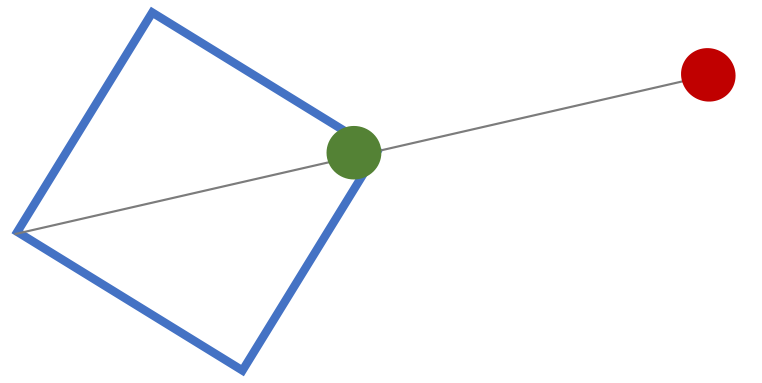
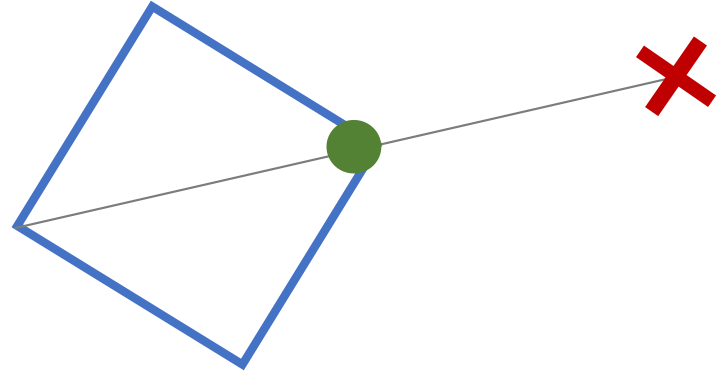
ch.5 corrections

Changed region(s): [[0.0, 0.0, 1.0, 1.0], [0.0922, 0.6819, 0.1844, 0.8005]]

diff --git a/cs/kap05.tex b/cs/kap05.tex
@@ -195,7 +195,7 @@ Z objektového návrhu již známe komponentu \textbf{\texttt{SwordMovement}}, j
 
 Z předchozí kapitoly bychom již měli být seznámeni se strukturou komponenty \textbf{\texttt{SwordMovement}}. Víme tedy, že hostuje množinu modulů - ty slouží jako zdroj high-level instrukcí udávajících cílovou polohu meče. Tyto instrukce jsou \texttt{SwordMovement}u předávány voláním metody \texttt{MoveSword()}.
 
-Této metodě je typicky předána nová pozice, od té předchozí libovolně vzdálená, každý snímek (technicky může být volána i několikrát za jeden snímek). Na meč však máme nároky, aby se pohyboval plynule bez náhlých změn rychlosti. Samotná metoda \texttt{MoveSword()} tedy žádný pohyb meče nevykonává - pouze v privátním stavu komponenty komponenty poznačí cílovou pozici, ke které se meč má přibližovat. Vlastní pohyb meče je pak vykonáván pravidelně každý snímek na základě aktuálně platné cílové pozice.
+Této metodě je typicky předána nová pozice, od té předchozí libovolně vzdálená, každý snímek (technicky může být volána i několikrát za jeden snímek). Na meč však máme nároky, aby se pohyboval plynule bez náhlých změn rychlosti. Samotná metoda \texttt{MoveSword()} tedy žádný pohyb meče nevykonává - pouze v privátním stavu komponenty poznačí cílovou pozici, ke které se meč má přibližovat. Vlastní pohyb meče je pak vykonáván pravidelně každý snímek na základě aktuálně platné cílové pozice.
 
 Pozice meče má dvě složky - lineární a rotační. Interně je reprezentujeme zkrátka jako 3D vektor udávající polohu \texttt{anchor}u meče, a kvaternion udávající jeho rotaci kolem \texttt{anchor}u. Pro veřejné rozhraní metody \texttt{MoveSword()} jsme se však rozhodli rotaci reprezentovat formou dvou orientačních bodů - ke kvaternionům se nám zdály jako celkově přívětivější alternativa, která je navíc kompatibilní s maticovými transformacemi.
 
@@ -243,7 +243,7 @@ Druhou složkou je lineární pohyb. Podívejme se nyní na ten.
 
 Zde jsme se pokusili, analogicky jako u rotace, pro jednotlivé stupně volnosti nastavit joint jako \texttt{Free} a polohu meče kontrolovat pomocí položky \texttt{targetPosition}. Narozdíl od rotace, zde se však joint choval nestabilně - pokud jsme cílovou pozici odchýlili příliš daleko od kotvícího bodu, meč začal být v nepředvídatelných intervalech surově vystřelován do dáli. Příčinu takto rozbitého chování se nám nepodařilo odhalit, pro lineární pohyb meče jsme tedy raději zvolili alternativní metodu. 
 
-Pomohla nám proměnná \texttt{joint.connectedAnchor}. Ta udává pozici na těle šermíře, ke které je joint svým \texttt{anchor}em ukotven. Defaultně je nastavená jako readonly - v editoru jí díky tomu joint může automaticky updatovat, aby souhlasila s nastavenou hodnotou \texttt{anchor} a polohou ve světě, kam jsme meč umístili. Zapisovací práva získáme vypnutím\footnote{Vhodné je ho v editoru nechat zapnutý a vypnout jej až programaticky při inicializaci SwordMovement. Takto zachováme pohodlí při práci v editoru.} flagu \texttt{joint.autoConfigureConnectedAnchor}. Nakonec je třeba nastavit všechny lineární stupně volnosti na \texttt{Locked}.
+Pomohla nám proměnná \texttt{joint.connectedAnchor}. Ta udává pozici na těle šermíře, ke které je joint svým \texttt{anchor}em ukotven. Defaultně je nastavená jako readonly - v editoru jí díky tomu joint může automaticky updatovat, aby souhlasila s nastavenou hodnotou \texttt{anchor} a polohou ve světě, kam jsme meč umístili. Zapisovací práva získáme vypnutím\footnote{Vhodné je ho v editoru nechat zapnutý a vypnout jej až programaticky při inicializaci \texttt{SwordMovement}. Takto zachováme pohodlí při práci v editoru.} flagu \texttt{joint.autoConfigureConnectedAnchor}. Nakonec je třeba nastavit všechny lineární stupně volnosti na \texttt{Locked}.
 
 Zápisem do \texttt{joint.connectedAnchor} jsme nyní schopni meč okamžitě přesunout na cílovou pozici. My však potřebujeme pohyb plynule rozložený v průběhu času. 
 
@@ -263,7 +263,7 @@ Jde o velmi triviální řešení, jež neodpovídá realistickému fyzikálním
 
 \subsubsection*{Síla držení meče} \label{implementationSwordHoldingForceSubsubsection}
 
-Někdy je třeba kromě pozice meče mít kontrolu i nad způsobem, jak je meč držen. Např. v modu blokování potřebujeme, aby byl meč držen pevněji než při sekání, jinak by blokující meč byl tím sekajícím sražen na stranu (sekající se pohybuje a má tedy větší kinetickou sílu). 
+Někdy je třeba kromě pozice meče mít kontrolu i nad způsobem, jak je meč držen. Např. v modu blokování potřebujeme, aby byl meč držen pevněji než při sekání, jinak by blokující meč byl tím sekajícím sražen na stranu (sekající se pohybuje a má proto větší kinetickou sílu). 
 
 Sílu držení meče jsme tedy umožnili definovat spolu s polohou. Jde o volitelný parametr - pokud není dodán, meč se navrací na defaultní sílu držení (která byla z jointu přečtena při inicializaci). Implementace probíhá jednoduše změnou položky \texttt{joint.slerpDrive.spring}, používáme k tomu stejnou triviální interpolaci jako pro pohyb \texttt{connectedAnchoru} výše.
 
@@ -275,7 +275,7 @@ Jak jsme nastínili v \ref{interfacesSwordMovementModulesObjectModelSubsubsectio
 
 Pro spravování indexované množiny objektů jsme implementovali třídu \texttt{SerializableDictionary<TKey, TValue>} - ta obsahuje serializovatelný list key-value párů a umožňuje jeho jednoduchý převod na \texttt{Dictionary}. 
 
-Vyvstává však problém - pole v tomto dictionary jsme deklarovali typu \texttt{SwordMovement.Module} - očekáváme, že konkrétní podtřídu vybere uživatel v editoru - Unity však v editoru výběr podtřídy nepodporuje. Naštěstí existuje knihovna \texttt{SubclassPropertyDrawer} \cite{SubclassPropertyDrawer}, která ji je schopna přímočaře doplnit.  
+Vyvstává však problém - pole v tomto dictionary jsme deklarovali typu \texttt{SwordMovement.Module} - očekáváme, že konkrétní podtřídu vybere uživatel v editoru - Unity však v editoru výběr podtřídy nepodporuje. Naštěstí existuje knihovna \texttt{SubclassPropertyDrawer} \cite{SubclassPropertyDrawer}, která jej je schopna přímočaře doplnit.  
 
 \begin{figure}[ht]\centering
   \center
@@ -348,13 +348,13 @@ Zde velmi stručně projdeme implementaci jednoduché zbraně a zbroje, které n
 
 \subsubsection*{BasicArmorPiece}
 
-Odkaz na své Damageable najde prohledáváním hierarchie směrem nahoru. Definuje dva parametry:
+Odkaz na své \texttt{Damageable} najde prohledáváním hierarchie směrem nahoru. Definuje dva parametry:
 \begin{itemize}
   \item \texttt{Násobič zranění} - číslo kterým vynásobí dmg útoku  
   \item \texttt{Minimální zranění} - pokud je výsledné dmg pod touto hranicí, útok bude ignorován
 \end{itemize}
 
-Jeho metoda \texttt{ProcessAttack()} spočte výsledné dmg a pokud je nad minimální hranicí, ubere toto množství HP svému Damageable voláním \texttt{ChangeHP()}.
+Jeho metoda \texttt{ProcessAttack()} spočte výsledné dmg a pokud je nad minimální hranicí, ubere toto množství HP svému \texttt{Damageable} voláním \texttt{ChangeHP()}.
 
 Šermířovi jsme umístili jednu instanci do kořenu jeho detailního těla - ta definuje základní chování pro všechny jeho collidery - do kostí jeho rukou jsme umístili dvě doplňující instance s menším násobičem. Ruce budou veškeré zásahy defaultně zpracovávat těmito v hierarchii bližšími instancemi, čímž se kompenzuje jejich jinak nadprůměrná zranitelnost. Podobně by se dal vyladit i zbytek šermířova těla.
 
@@ -425,9 +425,9 @@ void SetTargetRotation(
 
 Algoritmus jsme důkladně otestovali a zdá se spolehlivě fungovat.
 
-Zda smíme používat světové, nebo lokální souřadnice, záleží na hodnotě flagu \texttt{joint.configuredInWorldSpace}. Argument \texttt{startRotation} je (buď globální, nebo lokální) rotace, kterou jsme přečetli z \texttt{joint.transform} na začátku hry ve zprávě Start().
+Zda smíme používat světové, nebo lokální souřadnice, záleží na hodnotě flagu \texttt{joint.configuredInWorldSpace}. Argument \texttt{startRotation} je (buď globální, nebo lokální) rotace, kterou jsme přečetli z \texttt{joint.transform} na začátku hry ve zprávě \texttt{Start()}.
 
-V případě našeho meče používáme lokální souřadnice. Tedy \texttt{joint.configuredInWorldSpace} musí být false a jako parametr \texttt{startRotation} posíláme \texttt{joint.transform.localRotation}.
+V případě našeho meče používáme lokální souřadnice. Tedy \texttt{joint.configuredInWorldSpace} musí být \texttt{false} a jako parametr \texttt{startRotation} posíláme \texttt{joint.transform.localRotation}.
 
 V naší práci jsme tuto logiku zapouzdřili do třídy \texttt{JointRotationHelper}, kterou je třeba inicializovat odkazem na joint při spuštění hry. Následně pro nastavení cílové rotace stačí volat její metodu \texttt{SetTargetRotation} s jediným argumentem udávajícím cílovou rotaci.
 
@@ -556,7 +556,7 @@ Náším cílem je fixer umísťovat tak, aby došlo k jeho kolizi s Cílem tehd
 \begin{figure}[ht]\centering
   \center
   \includegraphics[height=30mm]{../img/fixerBirdseye.png}
-  \caption{Z ptačí perspektivy - Hostitel (zeleně), Cíl (červeně), Fixer (modře)}
+  \caption{Z ptačí perspektivy - Hostitel (kruh), Cíl (křížek), Fixer (čtverec)}
   \label{obr05:fixerBirdseye}
 \end{figure} 
 Z tvarů, které nám nabízejí primitivní collidery, se pro tento účel jeví nejvhodnějším \texttt{BoxCollider}. Jeho výšku stanovíme shodnou s délkou meče - jedna z jeho vertikálních hran se bude s osou Hostitelského meče shodovat - podstavu necháme pro jednoduchost čtvercovou a délku hrany necháme uživatelsky parametrizovatelnou - my budeme dále pracovat s pojmem \textbf{Hloubka}... vzdálenost jednoho z vrcholů podstavy od jejího středu - tedy polovina úhlopříčky podstavy.
@@ -637,7 +637,7 @@ Při testování jsme narazili na několik problémů. Prvním bylo, že fixer p
     spojnice = nová Úsečka(spojnice.origin, -spojnice.direction);
   minuláSpojnice = spojnice;
 \end{code}
-Následně již fixer Cílovému meči v tunelování korektně bránil. Příležitostně však nastávaly situace, kdy tato podmínka byla vyhodnocena jako \texttt{true}, aniž by šlo o tunelování. Např. okamžitě po inicializaci, v prvních několika snímcích hry, se celá hra zdá chovat celkově nestabilně a k tomuto jevu docházelo. Poloha fixeru se v takovém případě přepnula do stavu, kdy nastavoval směrem k Cílovému meči celý masiv svého těla - viz obr. \ref{obr05:fixerOverturned} - a docházelo tedy k pro hráče velmi matoucím kolizím s neznámým neviditelným objektem. 
+Následně již fixer Cílovému meči v tunelování korektně bránil. Příležitostně však nastávaly situace, kdy tato podmínka byla vyhodnocena jako \texttt{true}, aniž by šlo o tunelování. Např. okamžitě po inicializaci, v prvních několika snímcích hry, se hra zdá chovat celkově nestabilně a k tomuto jevu docházelo. Poloha fixeru se v takovém případě přepnula do stavu, kdy nastavoval směrem k Cílovému meči celý masiv svého těla - viz obr. \ref{obr05:fixerOverturned} - a docházelo tedy k pro hráče velmi matoucím kolizím s neznámým neviditelným objektem. 
 
 \begin{figure}[ht]\centering
   \center
@@ -702,7 +702,7 @@ Vzhledem k tomu, že počet fixerů ve scéně roste v nejhorším případě kv
 
 \begin{figure}[ht]\centering
   \center
-  \includegraphics[width=140mm]{../img/collisionFix-group.png}
+  \includegraphics[height=81mm]{../img/collisionFix-group.png}
   \caption{Čtveřice šermířů s plnou vzájemnou korekcí kolizí mečů}
   \label{obr05:collisionFixGroup}
 \end{figure} 
@@ -733,7 +733,7 @@ Aréna je ohraničena kolem dokola palisádou. Najdeme v ní kruhové bojiště,
 \begin{figure}[ht]\centering
   \center
   \includegraphics[width=145mm]{../img/demogameArenaLayout.png}
-  \caption{Aréna - bojiště (červeně), prostranství s tlačítky (modře)}
+  \caption{Aréna - bojiště (šrafovaně), prostranství s tlačítky}
   \label{obr05:demogameArenaLayout}
 \end{figure} 
 
@@ -761,7 +761,7 @@ Pozastavení hry, když je hráč v menu, jsme implementovali nastavením \textt
 
 Dále zde najdeme překryvné rozhraní, jehož úkolem je hráčovi komunikovat \textbf{stav jeho postavy}. 
 
-V levého spodním rohu najdeme healthbar - ten ukazuje jaká část z maximálního hráčova zdraví ještě zbývá. Informaci získává posloucháním OnUpdate eventu na hráčově \texttt{Damageable}, který zaregistruje hráčova \texttt{SwordAssembly}. Stejným způsobem na hráčovi poslouchá i druhá pomocná komponenta - jejím úkolem je na několik sekund přes obrazovku zobrazit obrázek krvavých skvrn, pokud bylo hráčovi uštědřeno obzvláště těžké zranění. Pokud hráč zemře, zobrazí se krvavé skvrny trvale spolu s výzvou, aby ''stiskl 'R' pro restart hry''.
+V levého spodním rohu najdeme healthbar - ten ukazuje jaká část z maximálního hráčova zdraví ještě zbývá. Informaci získává posloucháním \texttt{OnUpdate} eventu na hráčově \texttt{Damageable}, který zaregistruje hráčova \texttt{SwordAssembly}. Stejným způsobem na hráčovi poslouchá i druhá pomocná komponenta - jejím úkolem je na několik sekund přes obrazovku zobrazit obrázek krvavých skvrn, pokud bylo hráčovi uštědřeno obzvláště těžké zranění. Pokud hráč zemře, zobrazí se krvavé skvrny trvale spolu s výzvou, aby ''stiskl 'R' pro restart hry''.
 
 Pro komunikaci zdraví nepřátel nepoužíváme překryvné GUI. Původní myšlenka byla nad základní texturou nepřítele postupně odkrývat druhou vrstvu s krvavými skvrnami, nakonec jsme se omezili na postupné obarvování celého nepřítele na červeno (skrze \texttt{Renderer.material.color}) dle jeho zbývajících HP. Abychom ke zraněním poskytli okamžitou zpětnou vazbu, rovněž jsme zapojili \href{https://docs.unity3d.com/2022.2/Documentation/Manual/Built-inParticleSystem.html}{vestavěný Particle systém enginu Unity}, s jehož pomocí v místě zásahu emitujeme několik částic ''stříkající krve'' - viz obr. \ref{obr05:demogameEnemyBloodied}
 
@@ -841,12 +841,12 @@ Aby se nehromadil rozpor mezi pozicí agenta a skutečnou pozicí šermíře, je
  agent.nextPosition = this.transform.position + 0.9 * direction;
 \end{code} 
 
-Nyní je šermíř schopen se pohybovat po aréně, pronásledovat hráče a při tom se vyhýbat překážkám i dalším šermířům - viz obr.\ref{obr05:demogameAiNavigation}.
+Nyní je šermíř schopen se pohybovat po aréně, pronásledovat hráče a při tom se vyhýbat překážkám i dalším šermířům - viz obr. \ref{obr05:demogameAiNavigation}.
 
 \begin{figure}[h!]\centering
   \center
   \includegraphics[width=120mm]{../img/demogameAiNavigation.png}
-  \caption{Skupina šermířů koordinovaně pronásledující hráče (zelený válec značí interní \texttt{NavMeshAgent} polohu)}
+  \caption{Skupina šermířů koordinovaně pronásledující hráče (čárovaný válec značí interní \texttt{NavMeshAgent} polohu)}
   \label{obr05:demogameAiNavigation}
 \end{figure} 
 

diff --git a/cs/zaver.tex b/cs/zaver.tex
@@ -68,8 +68,7 @@ Velmi silnou stránkou \acl{KCD} je rovněž \textbf{vizuální prezentace}. Dí
 Naše práce ověřila, že za použití moderního fyzikálního systému, jakým je ten vestavěný v enginu Unity, je velmi dobře možné implementovat akční hru s mečem, která hráči poskytne nad zbraní jemnou kontrolu ve všech šesti stupních volnosti. Jádro takové hry jsme implementovali a může posloužit jako základ pro plnohodnotnou komerční hru či jako výchozí bod pro další výzkum v této oblasti.
 
 
-TODO: dopsat zbytek sekce!
-%Naše implementace zahrnuje hráčem ovladatelného šermíře, který je schopen se pohybovat po terénu. Třímá meč, se kterým je schopen volně pohybovat a používat ho k interakci s dalšími fyzikálně simulovanými objekty - např. nepřáteli.
+
 
 \section{Možnosti rozšíření}
 
@@ -81,7 +80,10 @@ TODO: dopsat zbytek sekce!
     \item \textbf{Přepracování IRayIntersectable} - v procesu mapování uživatelského vstupu na pohyb meče je nejprve třeba z paprsku vystřeleného z polohy hráčova kurzoru získat kontrolní bod. Toho dosahujeme průnikem paprsku s geometrickým útvarem. Současný systém (viz \ref{rayIntersectablesDefinitionSubsection}) umožňuje definovat tyto útvary vcelku flexibilně, ale nese neduhy v podobě špatných možností vizualizace a značné míry ručního ladění potřebné k dosažení dobrého výsledku. Rovněž chybí editor, s jehož pomocí by tyto útvary mohl editovat hráč uvnitř hry.
     \item \textbf{Lepší ovládání pohybu postavy} - jak se zdá, precizní ovládání meče vyžaduje, aby byla myš vyhrazena plně pro něj. Ovládání pohybu postavy tedy musí vystačit s klávesnicí - přímočaré ovladací schéma, jaké naše práce použila, nevede ke zcela optimálnímu hráčskému zážitku. Stejně jako v oblasti ovládání meče je zde třeba další výzkum.
     \item \textbf{Méně výpočetně náročná korekce kolizí} - metoda (viz \ref{swordCollisionsSection}), kterou jsme použili, abychom zabránili tunelování a celkově nekorektnímu chování mečů při vzájemných kolizích, nese overhead, který roste v nejhorším případě kvadraticky s počtem mečů ve scéně. Pro umožnění hromadných bitev je třeba nalézt preciznější heuristiky, s jejichž pomocí by pomocné collidery byly poolovány a umisťovány pouze tam, kde jsou skutečně třeba.
-    \item \textbf{Sofistikovanější nepřátelská AI} - algoritmus, který jsme použili pro ovládání nepřátelských šermířů, je velmi jednoduchý a pro hráče neposkytuje značnou výzvu. Vytvořit umělou inteligenci schopnou využít plně možností, jež jí jemná kontrola nad mečem poskytuje, by mohlo být zajímavým úkolem pro další výzkum - nabízí se např. zapojení evolučních algoritmů.    
+    \item \textbf{Balancing} - je třeba provést testování na dobrovolnících a podchytit 
+    \item \textbf{Multiplayer} - umožnit vzájemný boj několika hráčů se pro náší hru jeví jako přirozený další krok.  
+    \item \textbf{Sofistikovanější nepřátelská AI} - algoritmus, který jsme použili pro ovládání nepřátelských šermířů, je velmi jednoduchý a pro hráče neposkytuje značnou výzvu. Vytvořit umělou inteligenci schopnou využít plně možností, jež jí jemná kontrola nad mečem poskytuje, by mohlo být zajímavým úkolem pro další výzkum - nabízí se např. zapojení evolučních algoritmů.
+    \item \textbf{Výzkum ohledně interakce s prostředím}
     \item \textbf{Kombinace s dalšími herními mechanikami} - mnoho her přidává svému bojovému systému dodatečnou hloubku kombinací s dalšími mechanikami jako je systém výdrže, magie či \acs{RPG} progrese.
     \item \textbf{Rozšíření na hru plné velikosti} - jádro, které jsme vytvořili, je třeba doplnit dalšími ortogonálními mechanikami, přidat zajímavé nepřátele, narativ a level design, aby bylo dosaženo hry, která naplní standardy komerčního herního trhu. 
 \end{itemize}
